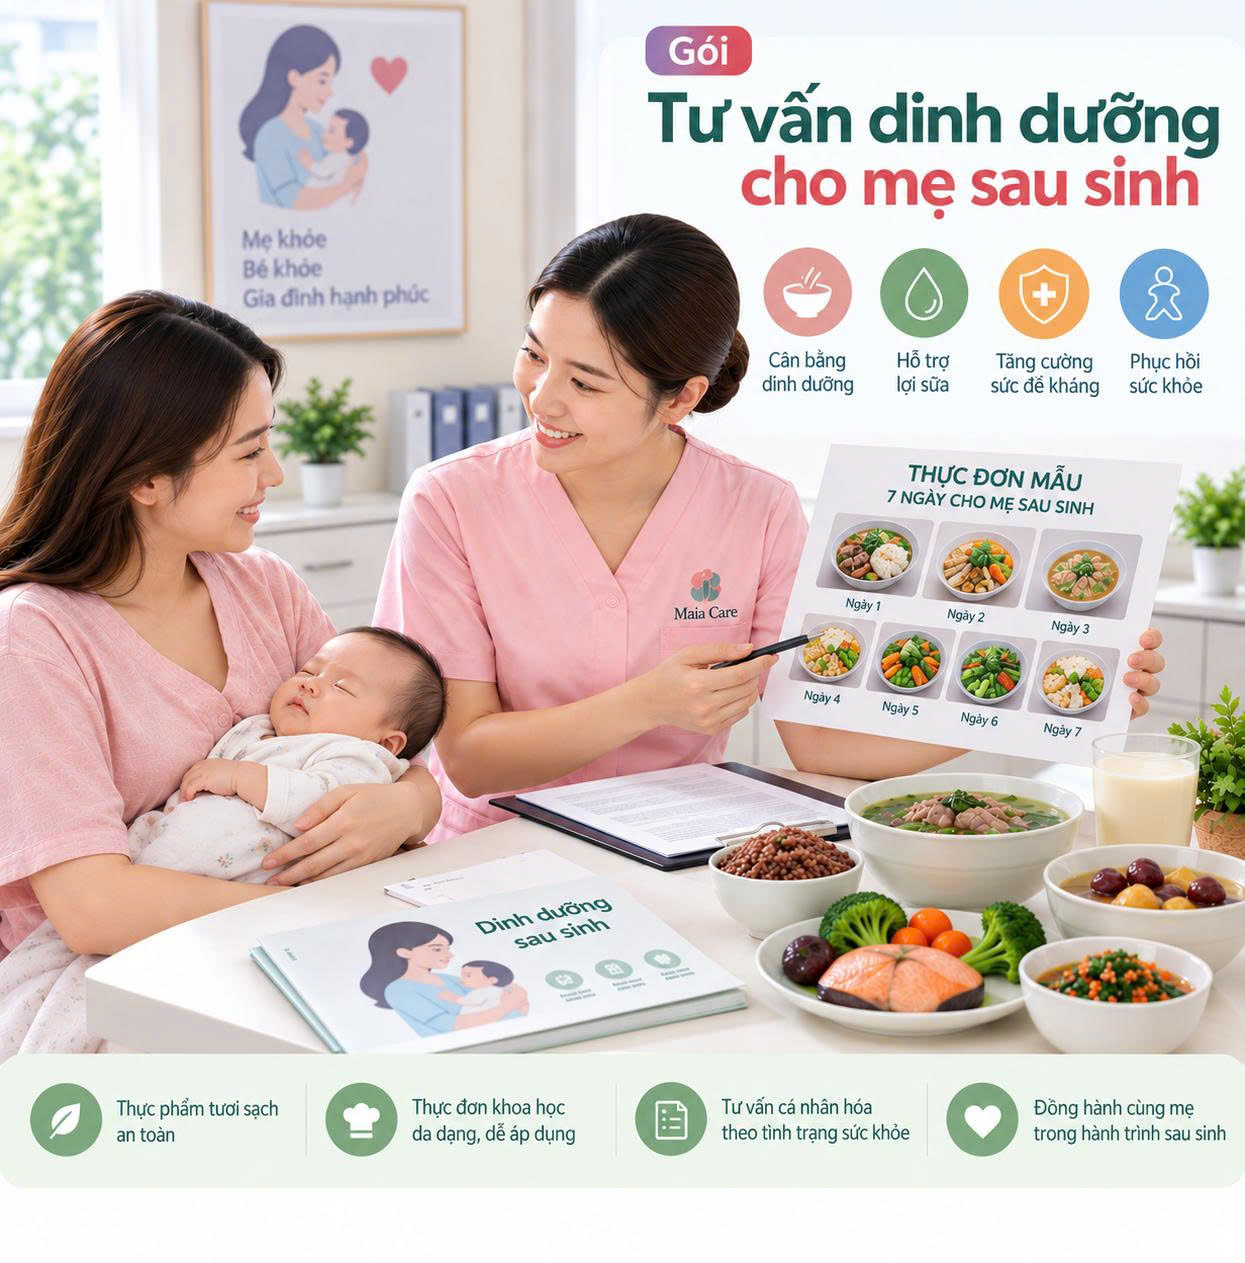
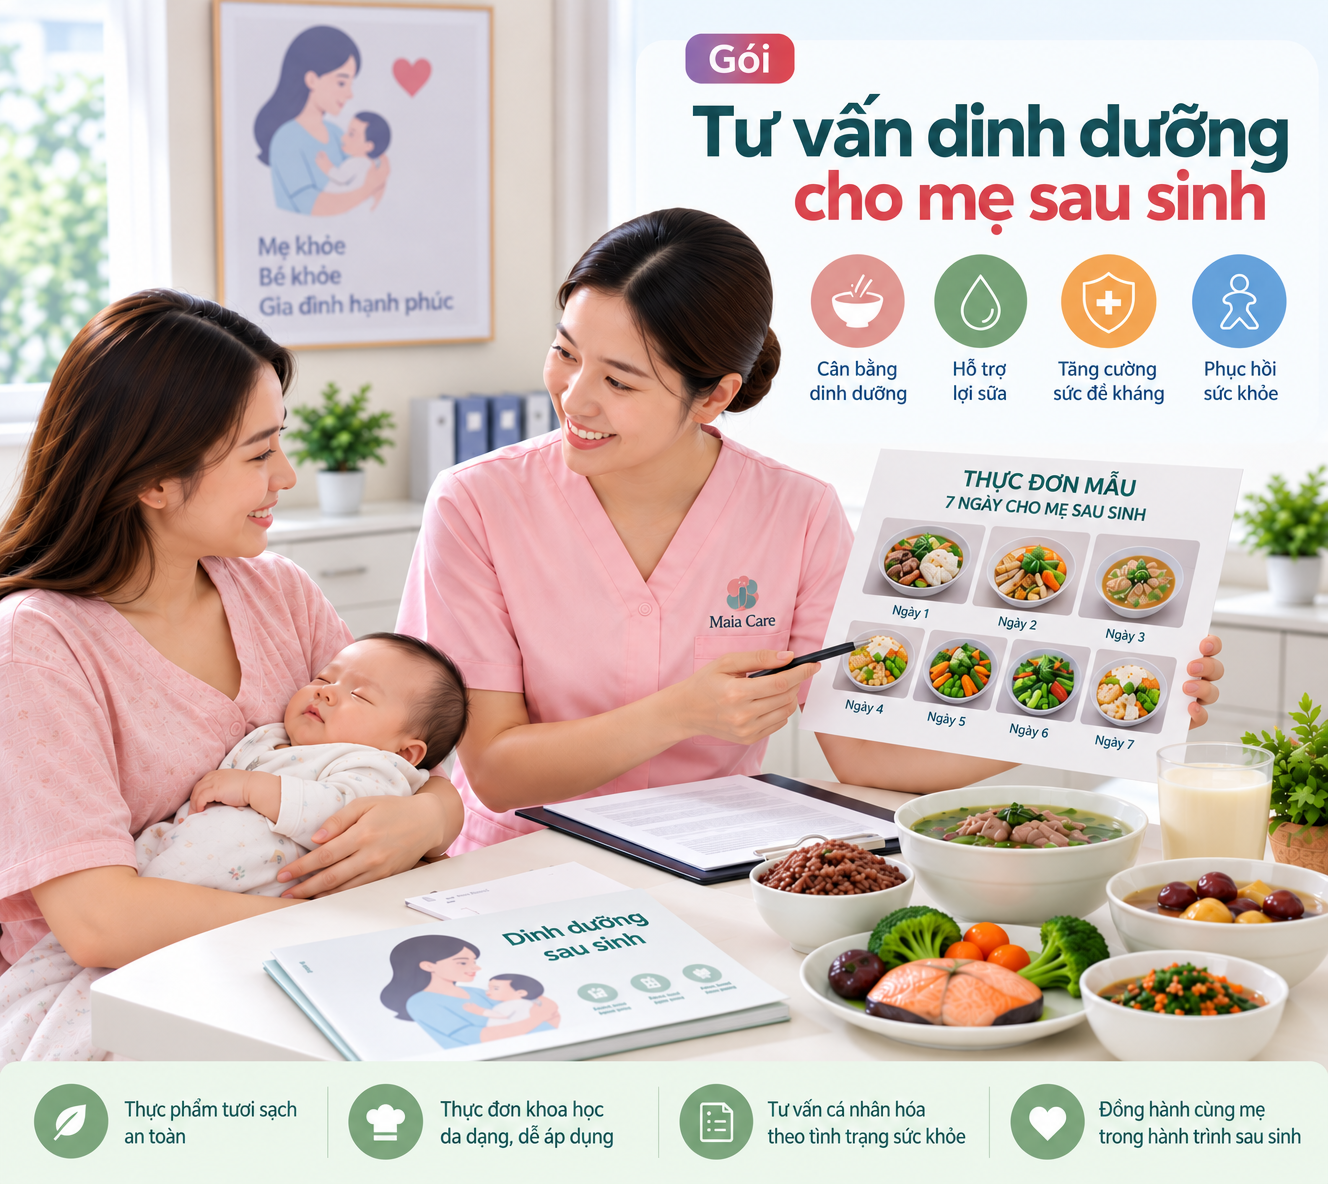
Release:v2.1

diff --git a/src/pages/Home/Home.css b/src/pages/Home/Home.css
@@ -12,7 +12,7 @@
 .banner-img {
   width: 100%;
   height: 700px; /* fallback mặc định, khớp Large Desktop, tránh collapse height trước khi media query áp dụng */
-  background-image: url('/mevabe.png');
+  background-image: url("/mevabe.png");
   background-size: cover;
   background-position: center top;
   background-repeat: no-repeat;
@@ -39,8 +39,6 @@
   z-index: 1;
 }
 
-
-
 /* Mobile */
 @media (max-width: 480px) {
   .banner {
@@ -48,7 +46,11 @@
   }
 
   .banner-img {
-    height: 500px;
+    height: 700px;
+    background-image: url("/bg2.png");
+    background-size: 100% 100%;
+    background-position: center;
+    background-repeat: no-repeat;
   }
 
   .banner-overlay {
@@ -368,8 +370,7 @@
    ========================================= */
 .services-section {
   background-color: var(--clr-background);
-    padding: 80px 24px 0px 24px;
- 
+  padding: 80px 24px 0px 24px;
 }
 
 .services-container {

diff --git a/src/pages/Service/Service.css b/src/pages/Service/Service.css
@@ -103,7 +103,7 @@
 
 .sp-card__img {
   width: 100%;
-  height: 100%;
+  height: 120%;
   object-fit: cover;
   transition: transform 0.6s ease;
 }
@@ -207,8 +207,18 @@
     grid-template-columns: repeat(2, 1fr);
   }
   .sp-card__img-wrap {
-    height: 280px;
+    height: 400px;
   }
+  .sp-card__img {
+  height: 100%;
+
+}
+
+.sp-grid {
+  
+  gap: 34px;
+
+}
 }
 
 @media (max-width: 600px) {
@@ -230,8 +240,12 @@
   }
   
   .sp-card__img-wrap {
-    height: 220px;
+    height: 400px;
   }
+  .sp-card__img {
+  height: 100%;
+
+}
   
   .sp-card__title {
     font-size: 1.25rem;

diff --git a/src/pages/Home/Home.jsx b/src/pages/Home/Home.jsx
@@ -63,7 +63,6 @@ const Home = () => {
       <section className="banner">
         <div
           className="banner-img"
-          style={{ backgroundImage: "url('/mevabe.png')" }}
           role="img"
           aria-label="Banner mẹ và bé"
         />
